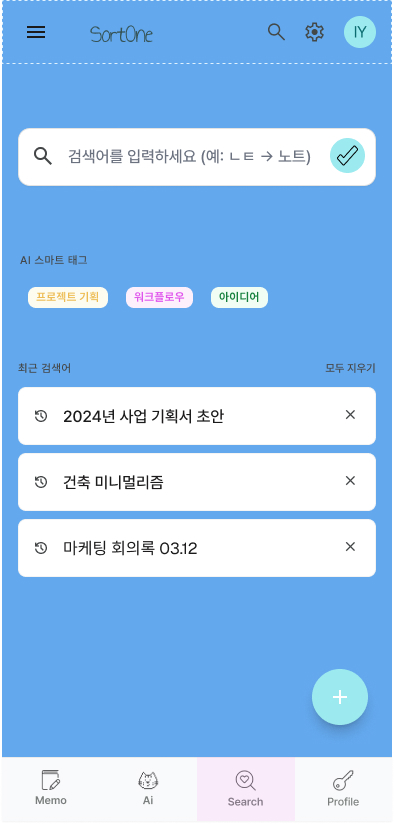
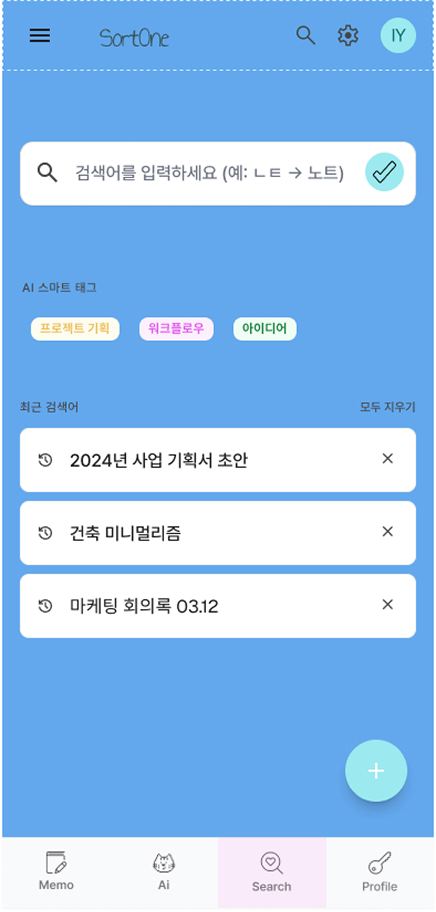
feat: enhance AI Insight and Organize scroll interactions, fix alignment

diff --git a/style.css b/style.css
@@ -408,9 +408,26 @@ ul{ margin:0; padding:0; list-style:none; }
 .output-tags{ display:flex; flex-wrap: wrap; gap: 8px; }
 
 /* =================== 03 AI INSIGHT =================== */
-.pill-label{
-  display:block; font-size: 12px; font-weight: 700; color: var(--ink-faint);
-  letter-spacing: .04em; margin-bottom: 16px;
+.section-head--insight {
+  display: flex;
+  flex-direction: column;
+  align-items: center;
+  margin-bottom: 70px;
+}
+.section-head--insight .section-title {
+  margin-bottom: 24px;
+}
+.pill-label {
+  display: flex; align-items: center; font-size: 11px; font-weight: 700; color: var(--ink-faint);
+  letter-spacing: .06em; margin-bottom: 16px;
+}
+.pill-label--insight { color: var(--accent); }
+.pill-line {
+  display: inline-block;
+  width: 20px;
+  height: 1px;
+  background-color: var(--accent);
+  margin-right: 8px;
 }
 .insight__stage{
   display: grid;
@@ -420,53 +437,31 @@ ul{ margin:0; padding:0; list-style:none; }
 }
 .insight__col--left{ padding-right: 8px; }
 .insight__heading{ font-size: 26px; font-weight: 800; margin: 0 0 14px; letter-spacing: -0.02em; }
-.insight__text{ font-size: 14.5px; line-height: 1.7; color: var(--ink-soft); margin: 0 0 32px; max-width: 320px; }
-.insight__stats{ display:flex; gap: 40px; }
-.stat{ display:flex; flex-direction: column; gap: 6px; }
-.stat__label{ font-size: 11.5px; color: var(--ink-faint); font-weight: 600; }
-.stat__value{ font-size: 34px; font-weight: 800; letter-spacing: -0.02em; }
-.stat__value--pos{ color: var(--accent); font-size: 26px; }
+.insight__text{ font-size: 14.5px; line-height: 1.7; color: var(--ink-soft); margin: 0 0 40px; max-width: 320px; }
+.text-accent { color: var(--accent); }
+.insight__stats{ display:flex; gap: 40px; border-top: 1px solid var(--line); padding-top: 24px; }
+.stat{ display:flex; flex-direction: column; gap: 8px; }
+.stat__label{ font-size: 11px; color: var(--ink-faint); font-weight: 600; letter-spacing: .02em; }
+.stat__value{ font-size: 26px; font-weight: 800; letter-spacing: -0.02em; line-height: 1.2; }
+.stat__value--pos{ color: var(--accent); position: relative; top: 2px; }
 
-.phone--insight{ margin: 0 auto; }
-.phone__body--blue{ background: var(--panel-blue); padding: 20px; border-radius: 0 0 40px 40px; }
-.phone__insight-label{ font-size: 10.5px; font-weight: 700; color: var(--blue-ink); letter-spacing: .06em; margin: 0 0 8px; }
-.phone__insight-title{ font-size: 19px; font-weight: 800; margin: 0 0 8px; letter-spacing: -0.02em; }
-.phone__insight-desc{ font-size: 12px; line-height: 1.6; color: var(--ink-soft); margin: 0 0 18px; }
-.phone__insight-row{ display:flex; gap: 24px; margin-bottom: 18px; }
-.phone__insight-row > div{ display:flex; flex-direction: column; gap: 4px; }
-.mini-label{ font-size: 10px; color: var(--ink-faint); font-weight: 600; }
-.mini-value{ font-size: 20px; font-weight: 800; }
-.mini-value--pos{ color: var(--accent); font-size: 15px; }
-
-.insight-card{
-  background: #fff; border-radius: 16px; padding: 16px; margin-bottom: 12px;
-}
-.insight-card__label{ font-size: 11px; font-weight: 700; margin: 0 0 12px; color: var(--ink-soft); }
-.progress-row{ display:flex; justify-content: space-between; font-size: 11px; color: var(--ink-soft); margin-bottom: 6px; font-weight: 600; }
-.progress-track{ height: 5px; border-radius: 4px; background: var(--panel); margin-bottom: 14px; overflow: hidden; }
-.progress-bar{ height: 100%; border-radius: 4px; background: var(--accent); transform-origin: left; }
-.progress-bar--alt{ background: var(--blue-ink); }
-.action-row{ display:flex; align-items:center; gap: 8px; font-size: 12px; color: var(--ink); font-weight: 600; padding: 6px 0; }
-.dot-mark{ width: 7px; height: 7px; border-radius: 50%; flex-shrink:0; }
-.dot-mark--red{ background: var(--accent); }
-.dot-mark--yellow{ background: var(--yellow-ink); }
-.phone__fab{
-  position:absolute; right: 20px; bottom: 20px;
-  width: 44px; height: 44px; border-radius: 50%;
-  background: var(--ink); color: #fff;
-  display:flex; align-items:center; justify-content:center;
-  font-size: 20px; font-weight: 300;
-  box-shadow: 0 12px 24px -8px rgba(0,0,0,.4);
+.insight-center-img {
+  width: 100%;
+  max-width: 340px;
+  margin: 0 auto;
+  display: block;
 }
 
-.insight__col--right{ display:flex; flex-direction: column; gap: 16px; }
-.side-card{ background: var(--panel); border-radius: 18px; padding: 20px; }
-.side-card__label{ font-size: 10.5px; font-weight: 700; color: var(--ink-faint); letter-spacing: .05em; margin: 0 0 12px; }
-.side-card__row{ display:flex; justify-content: space-between; font-size: 13px; font-weight: 600; }
-.side-card__row b{ color: var(--accent); }
-.side-card__list li{ font-size: 13px; font-weight: 600; padding: 5px 0; color: var(--ink); }
-.side-card__list li::before{ content:"??"; color: var(--ink-faint); }
-.side-quote{ font-size: 13px; line-height: 1.7; color: var(--ink-soft); font-style: italic; padding: 4px 4px; }
+.insight__col--right{ display:flex; flex-direction: column; gap: 20px; padding-left: 16px; }
+.side-card{ background: #ffffff; border: 1px solid var(--line); border-left: 4px solid #E5E5E5; border-radius: 12px; padding: 24px; box-shadow: 0 4px 12px rgba(0,0,0,0.02); }
+.side-card__label{ font-size: 10px; font-weight: 700; color: var(--ink-faint); letter-spacing: .06em; margin: 0 0 16px; }
+.side-card__row{ display:flex; justify-content: space-between; font-size: 14px; font-weight: 600; }
+.side-card__list { list-style: none; padding: 0; margin: 0; }
+.side-card__list li{ display: flex; align-items: center; gap: 10px; font-size: 13px; font-weight: 600; padding: 8px 0; color: var(--ink); }
+.dot { display: inline-block; width: 5px; height: 5px; border-radius: 50%; flex-shrink: 0; }
+.dot--red { background-color: var(--accent); }
+.dot--green { background-color: var(--mint-ink); }
+.side-quote{ font-size: 13px; line-height: 1.7; color: var(--ink-soft); font-weight: 500; text-align: center; margin-top: 20px; color: var(--ink-faint); }
 
 /* =================== 04 FIND =================== */
 .find__stage{

diff --git a/script.js b/script.js
@@ -18,19 +18,6 @@ ScrollTrigger.create({
   }
 });
 
-sections.forEach((section) => {
-  ScrollTrigger.create({
-    trigger: section,
-    start: "top 55%",
-    end: "bottom 55%",
-    onToggle: (self) => {
-      if (!self.isActive) return;
-      const key = section.id;
-      navLinks.forEach(l => l.classList.toggle("is-active", l.dataset.nav === key));
-      dots.forEach(d => d.classList.toggle("is-active", d.dataset.dot === key));
-    }
-  });
-});
 
 /* =========================================================
    01 INTRO — reveal + mouse micro-move
@@ -156,7 +143,7 @@ gsap.timeline({
 const organizeTl = gsap.timeline({
   scrollTrigger: {
     trigger: "#organize",
-    start: "top top",
+    start: "center center",
     end: "+=250%",
     scrub: 1,
     pin: true,
@@ -215,43 +202,56 @@ organizeTl
 
 
 /* =========================================================
-   03 AI INSIGHT — staggered reveal of stats & cards
+   03 AI INSIGHT — Pinned Scrubbing Interaction
 ========================================================= */
 const insightTl = gsap.timeline({
   scrollTrigger: {
     trigger: "#insight",
-    start: "top 65%",
-    once: true
+    start: "center center", // 화면 중앙에 예쁘게 배치되었을 때 고정
+    end: "+=200%",    // 200% 만큼 스크롤 고정
+    scrub: 1,         // 스크러빙
+    pin: true,
+    anticipatePin: 1
   }
 });
 
-insightTl
-  .from("[data-stagger='left'] > *", { y: 30, opacity: 0, duration: 0.8, stagger: 0.1, ease: EASE_GSAP })
-  .from("[data-stagger='center'] .phone", { y: 50, opacity: 0, duration: 0.9, ease: EASE_GSAP }, "-=0.6")
-  .from(".insight-card", { y: 24, opacity: 0, duration: 0.6, stagger: 0.12, ease: EASE_GSAP }, "-=0.5")
-  .from("[data-stagger='right'] > *", { y: 30, opacity: 0, duration: 0.8, stagger: 0.12, ease: EASE_GSAP }, "-=0.7")
-  .from(".progress-bar", { scaleX: 0, duration: 0.8, stagger: 0.15, ease: "power2.out" }, "-=0.5");
+const insightStatCount = document.getElementById("insightStatCount");
+const insightStatEff = document.getElementById("insightStatEff");
+const insightStatObj1 = { val: 0 };
+const insightStatObj2 = { val: 0 };
 
-// animated count-up for stat number
-document.querySelectorAll("[data-count]").forEach(el => {
-  const target = parseInt(el.dataset.count, 10);
-  ScrollTrigger.create({
-    trigger: el,
-    start: "top 80%",
-    once: true,
-    onEnter: () => {
-      gsap.to(el, {
-        innerText: target,
-        duration: 1.4,
-        ease: "power2.out",
-        snap: { innerText: 1 },
-        onUpdate: function () {
-          el.innerText = Math.round(this.targets()[0].innerText);
-        }
-      });
-    }
-  });
-});
+// 요소 초기 상태 (타임라인 전)
+gsap.set(".insight__col--left > *:not(.insight__stats)", { opacity: 0, y: 30 });
+gsap.set(".insight__stats", { opacity: 0, y: 30 });
+gsap.set(".insight-center-img", { opacity: 0, y: 50 });
+gsap.set(".side-card", { opacity: 0, y: 40 });
+gsap.set(".side-quote", { opacity: 0 });
+
+insightTl
+  // Step 1: 좌측 텍스트 및 통계
+  .to(".insight__col--left > *:not(.insight__stats)", { opacity: 1, y: 0, duration: 1, stagger: 0.2 })
+  .to(".insight__stats", { opacity: 1, y: 0, duration: 1 }, "-=0.5")
+  .to(insightStatObj1, { 
+    val: 24, 
+    duration: 1.5, 
+    ease: "power2.out",
+    onUpdate: () => { if(insightStatCount) insightStatCount.innerText = Math.round(insightStatObj1.val); }
+  }, "-=0.5")
+  .to(insightStatObj2, { 
+    val: 15, 
+    duration: 1.5, 
+    ease: "power2.out",
+    onUpdate: () => { if(insightStatEff) insightStatEff.innerText = Math.round(insightStatObj2.val); }
+  }, "-=1.5")
+  
+  // Step 2: 중앙 이미지 슬라이드 업
+  .to(".insight-center-img", { opacity: 1, y: 0, duration: 2, ease: "power2.out" }, "-=0.5")
+  
+  // Step 3: 우측 패널 연동
+  .to(".insight-card, .side-card", { opacity: 1, y: 0, duration: 1.5, stagger: 0.5, ease: "power2.out" }, "-=1")
+  
+  // Step 4: 하단 카피
+  .to(".side-quote", { opacity: 1, duration: 1.5, ease: "power2.out" }, "-=0.5");
 
 /* =========================================================
    04 FIND — search results unfold + tag slide-in
@@ -279,6 +279,24 @@ findTl
   .from(".find-recent__item", { x: 20, opacity: 0, duration: 0.5, stagger: 0.08, ease: EASE_GSAP }, "-=0.6");
 
 /* =========================================================
+   SECTION HEADERS REVEAL
+========================================================= */
+gsap.utils.toArray(".section-header, .section-head").forEach(head => {
+  gsap.from(head.children, {
+    scrollTrigger: {
+      trigger: head,
+      start: "top 85%",
+      toggleActions: "play none none reverse"
+    },
+    y: 30,
+    opacity: 0,
+    duration: 0.8,
+    stagger: 0.15,
+    ease: EASE_GSAP
+  });
+});
+
+/* =========================================================
    FINAL CTA — reveal + floating hover already handled in CSS
 ========================================================= */
 gsap.from("#cta [data-reveal]", {
@@ -296,3 +314,20 @@ gsap.from("#cta [data-reveal]", {
 
 /* refresh on load once fonts/images settle */
 window.addEventListener("load", () => ScrollTrigger.refresh());
+
+/* Navigation active state update (must be at the bottom so it respects pinned sections) */
+function setActive(key) {
+  navLinks.forEach(l => l.classList.toggle("is-active", l.dataset.nav === key));
+  dots.forEach(d => d.classList.toggle("is-active", d.dataset.dot === key));
+}
+
+sections.forEach((section, index) => {
+  ScrollTrigger.create({
+    trigger: section,
+    start: "top 50%",
+    onEnter: () => setActive(section.id),
+    onLeaveBack: () => {
+      if (index > 0) setActive(sections[index - 1].id);
+    }
+  });
+});

diff --git a/index.html b/index.html
@@ -145,9 +145,8 @@
     </div>
   </section>
 
-  <!-- ================= 03 AI INSIGHT ================= -->
   <section class="section section--insight" id="insight">
-    <div class="section-head">
+    <div class="section-head section-head--insight">
       <span class="section-eyebrow">03 AI INSIGHT</span>
       <h2 class="section-title">당신의 메모, 이야기가 되다.</h2>
       <p class="section-desc">흩어진 메모들 속에서 의미를 찾습니다.<br>주간 인사이트와 다음 할 일을 AI가 제안합니다.</p>
@@ -155,65 +154,38 @@
 
     <div class="insight__stage">
       <div class="insight__col insight__col--left" data-stagger="left">
-        <span class="pill-label">— WEEKLY INSIGHT</span>
+        <span class="pill-label pill-label--insight"><span class="pill-line"></span>WEEKLY INSIGHT</span>
         <h3 class="insight__heading">이번 주의 핵심 통찰</h3>
-        <p class="insight__text">프로젝트 관리와 효율적 소통이 업무 생산성을 15% 향상시켰습니다.</p>
+        <p class="insight__text">프로젝트 관리와 효율적 소통이 업무 생산성을<br><span class="text-accent">15% 향상</span> 시켰습니다.</p>
         <div class="insight__stats">
           <div class="stat">
             <span class="stat__label">작성된 메모</span>
-            <span class="stat__value" data-count="24">0</span>
+            <span class="stat__value"><span id="insightStatCount">0</span>개</span>
           </div>
           <div class="stat">
-            <span class="stat__label">주간 증감률</span>
-            <span class="stat__value stat__value--pos">+12%</span>
+            <span class="stat__label">분석 효율</span>
+            <span class="stat__value stat__value--pos">+<span id="insightStatEff">0</span>%</span>
           </div>
         </div>
       </div>
 
       <div class="insight__col insight__col--center" data-stagger="center">
-        <div class="phone phone--insight">
-          <div class="phone__topbar">
-            <span class="phone__appname">SortOne</span>
-            <span class="phone__icons">⌕ ⚙ 🅦</span>
-          </div>
-          <div class="phone__body phone__body--blue">
-            <p class="phone__insight-label">WEEKLY INSIGHT</p>
-            <h4 class="phone__insight-title">이번 주 핵심 통찰</h4>
-            <p class="phone__insight-desc">프로젝트 관리와 효율적 소통이 업무 생산성 15% 향상 시켰습니다.</p>
-            <div class="phone__insight-row">
-              <div><span class="mini-label">작성된 메모</span><span class="mini-value">24개</span></div>
-              <div><span class="mini-label">증감 추세</span><span class="mini-value mini-value--pos">+12%</span></div>
-            </div>
-            <div class="insight-card">
-              <p class="insight-card__label">분석 현황</p>
-              <div class="progress-row"><span>시장 분석 보고서 요약</span><span>80%</span></div>
-              <div class="progress-track"><div class="progress-bar" style="width:80%"></div></div>
-              <div class="progress-row"><span>제안 문서 #004 준비하기</span><span>45%</span></div>
-              <div class="progress-track"><div class="progress-bar progress-bar--alt" style="width:45%"></div></div>
-            </div>
-            <div class="insight-card">
-              <p class="insight-card__label">실행 항목</p>
-              <div class="action-row"><span class="dot-mark dot-mark--red"></span>디자인 팀 검토 미팅 예약</div>
-              <div class="action-row"><span class="dot-mark dot-mark--yellow"></span>사용자 인터뷰 질문지 리스트업</div>
-            </div>
-            <span class="phone__fab">+</span>
-          </div>
-        </div>
+        <img src="img/ai.jpg" alt="AI Insight" class="insight-center-img">
       </div>
 
       <div class="insight__col insight__col--right" data-stagger="right">
         <div class="side-card">
           <p class="side-card__label">ANALYSIS STATUS</p>
-          <div class="side-card__row"><span>시장 분석 보고서 요약</span><b>80%</b></div>
+          <div class="side-card__row"><span>시장 분석 보고서 요약</span><b class="text-accent">85%</b></div>
         </div>
         <div class="side-card">
           <p class="side-card__label">ACTION ITEMS</p>
           <ul class="side-card__list">
-            <li>디자인 팀 검토 미팅 예약</li>
-            <li>사용자 인터뷰 질문지 리스트업</li>
+            <li><span class="dot dot--red"></span>디자인 팀 검토 미팅 예약</li>
+            <li><span class="dot dot--green"></span>사용자 인터뷰 질문지 리스트업</li>
           </ul>
         </div>
-        <p class="side-quote">"AI가 당신의 기록 습관을 분석하여 최적의 생산성 루틴을 제안합니다."</p>
+        <p class="side-quote">"AI가 당신의 기록 습관을 분석하여 최적<br>의 생산성 루틴을 제안합니다."</p>
       </div>
     </div>
   </section>
